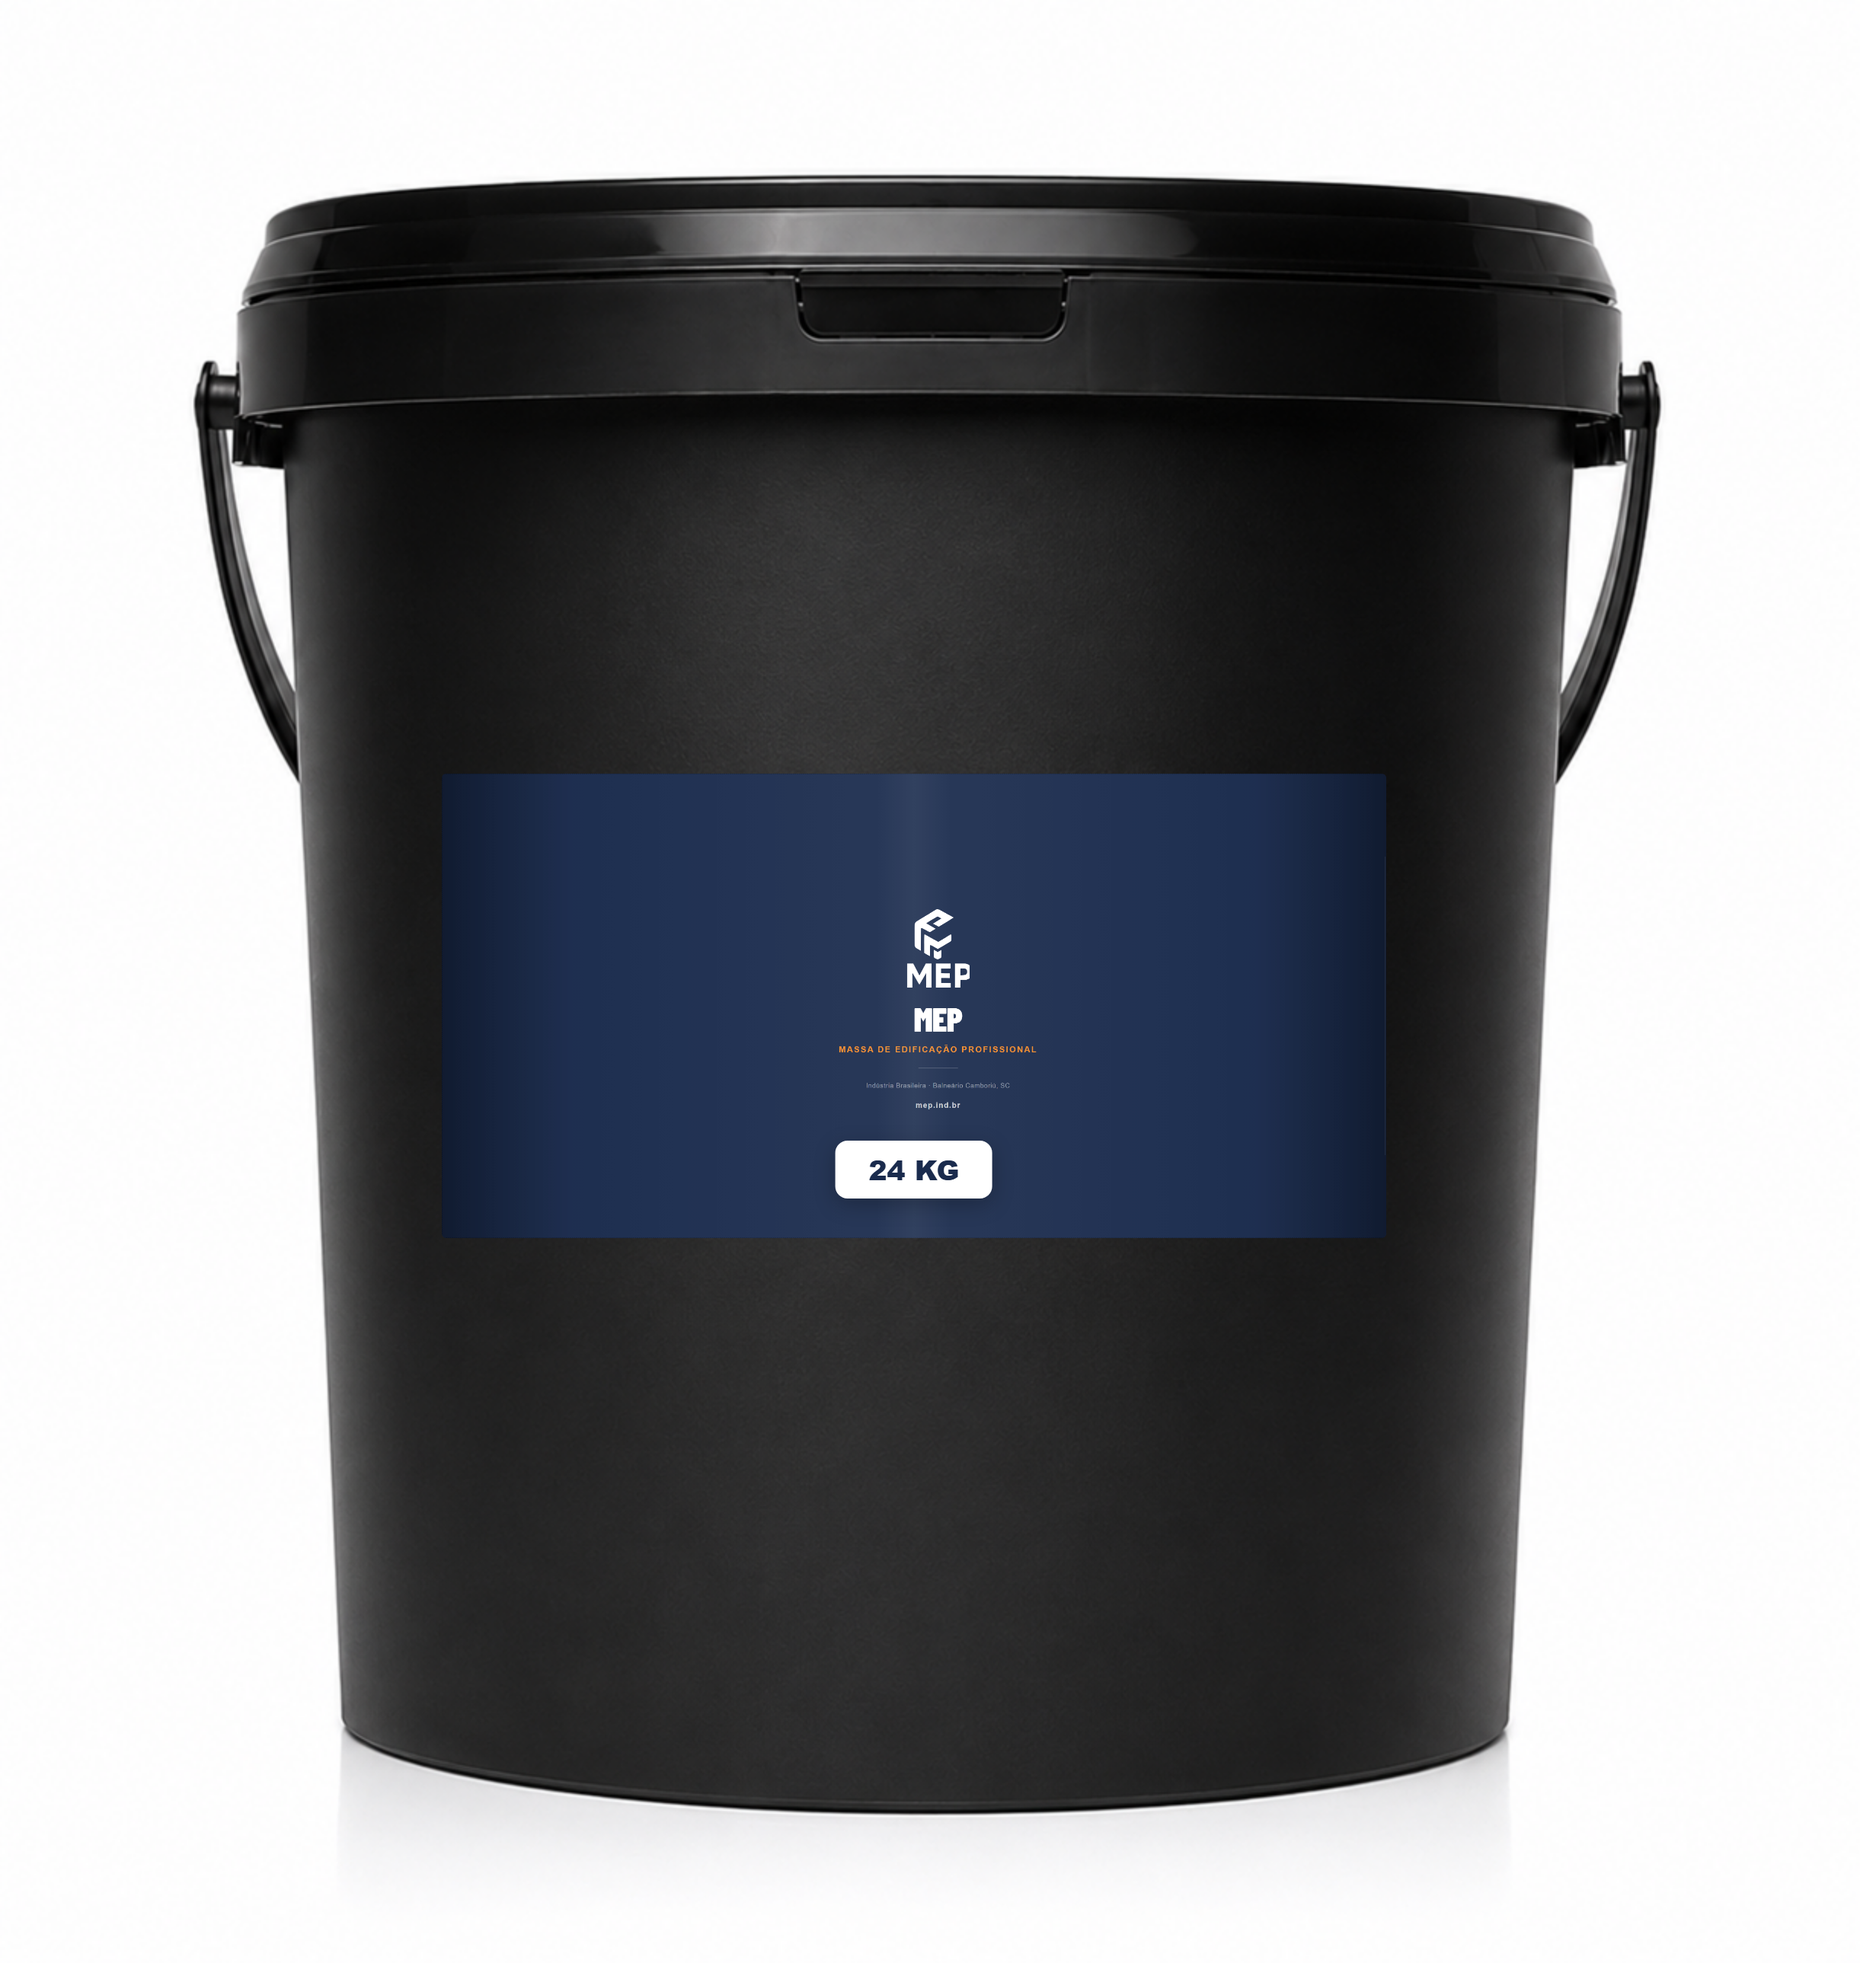
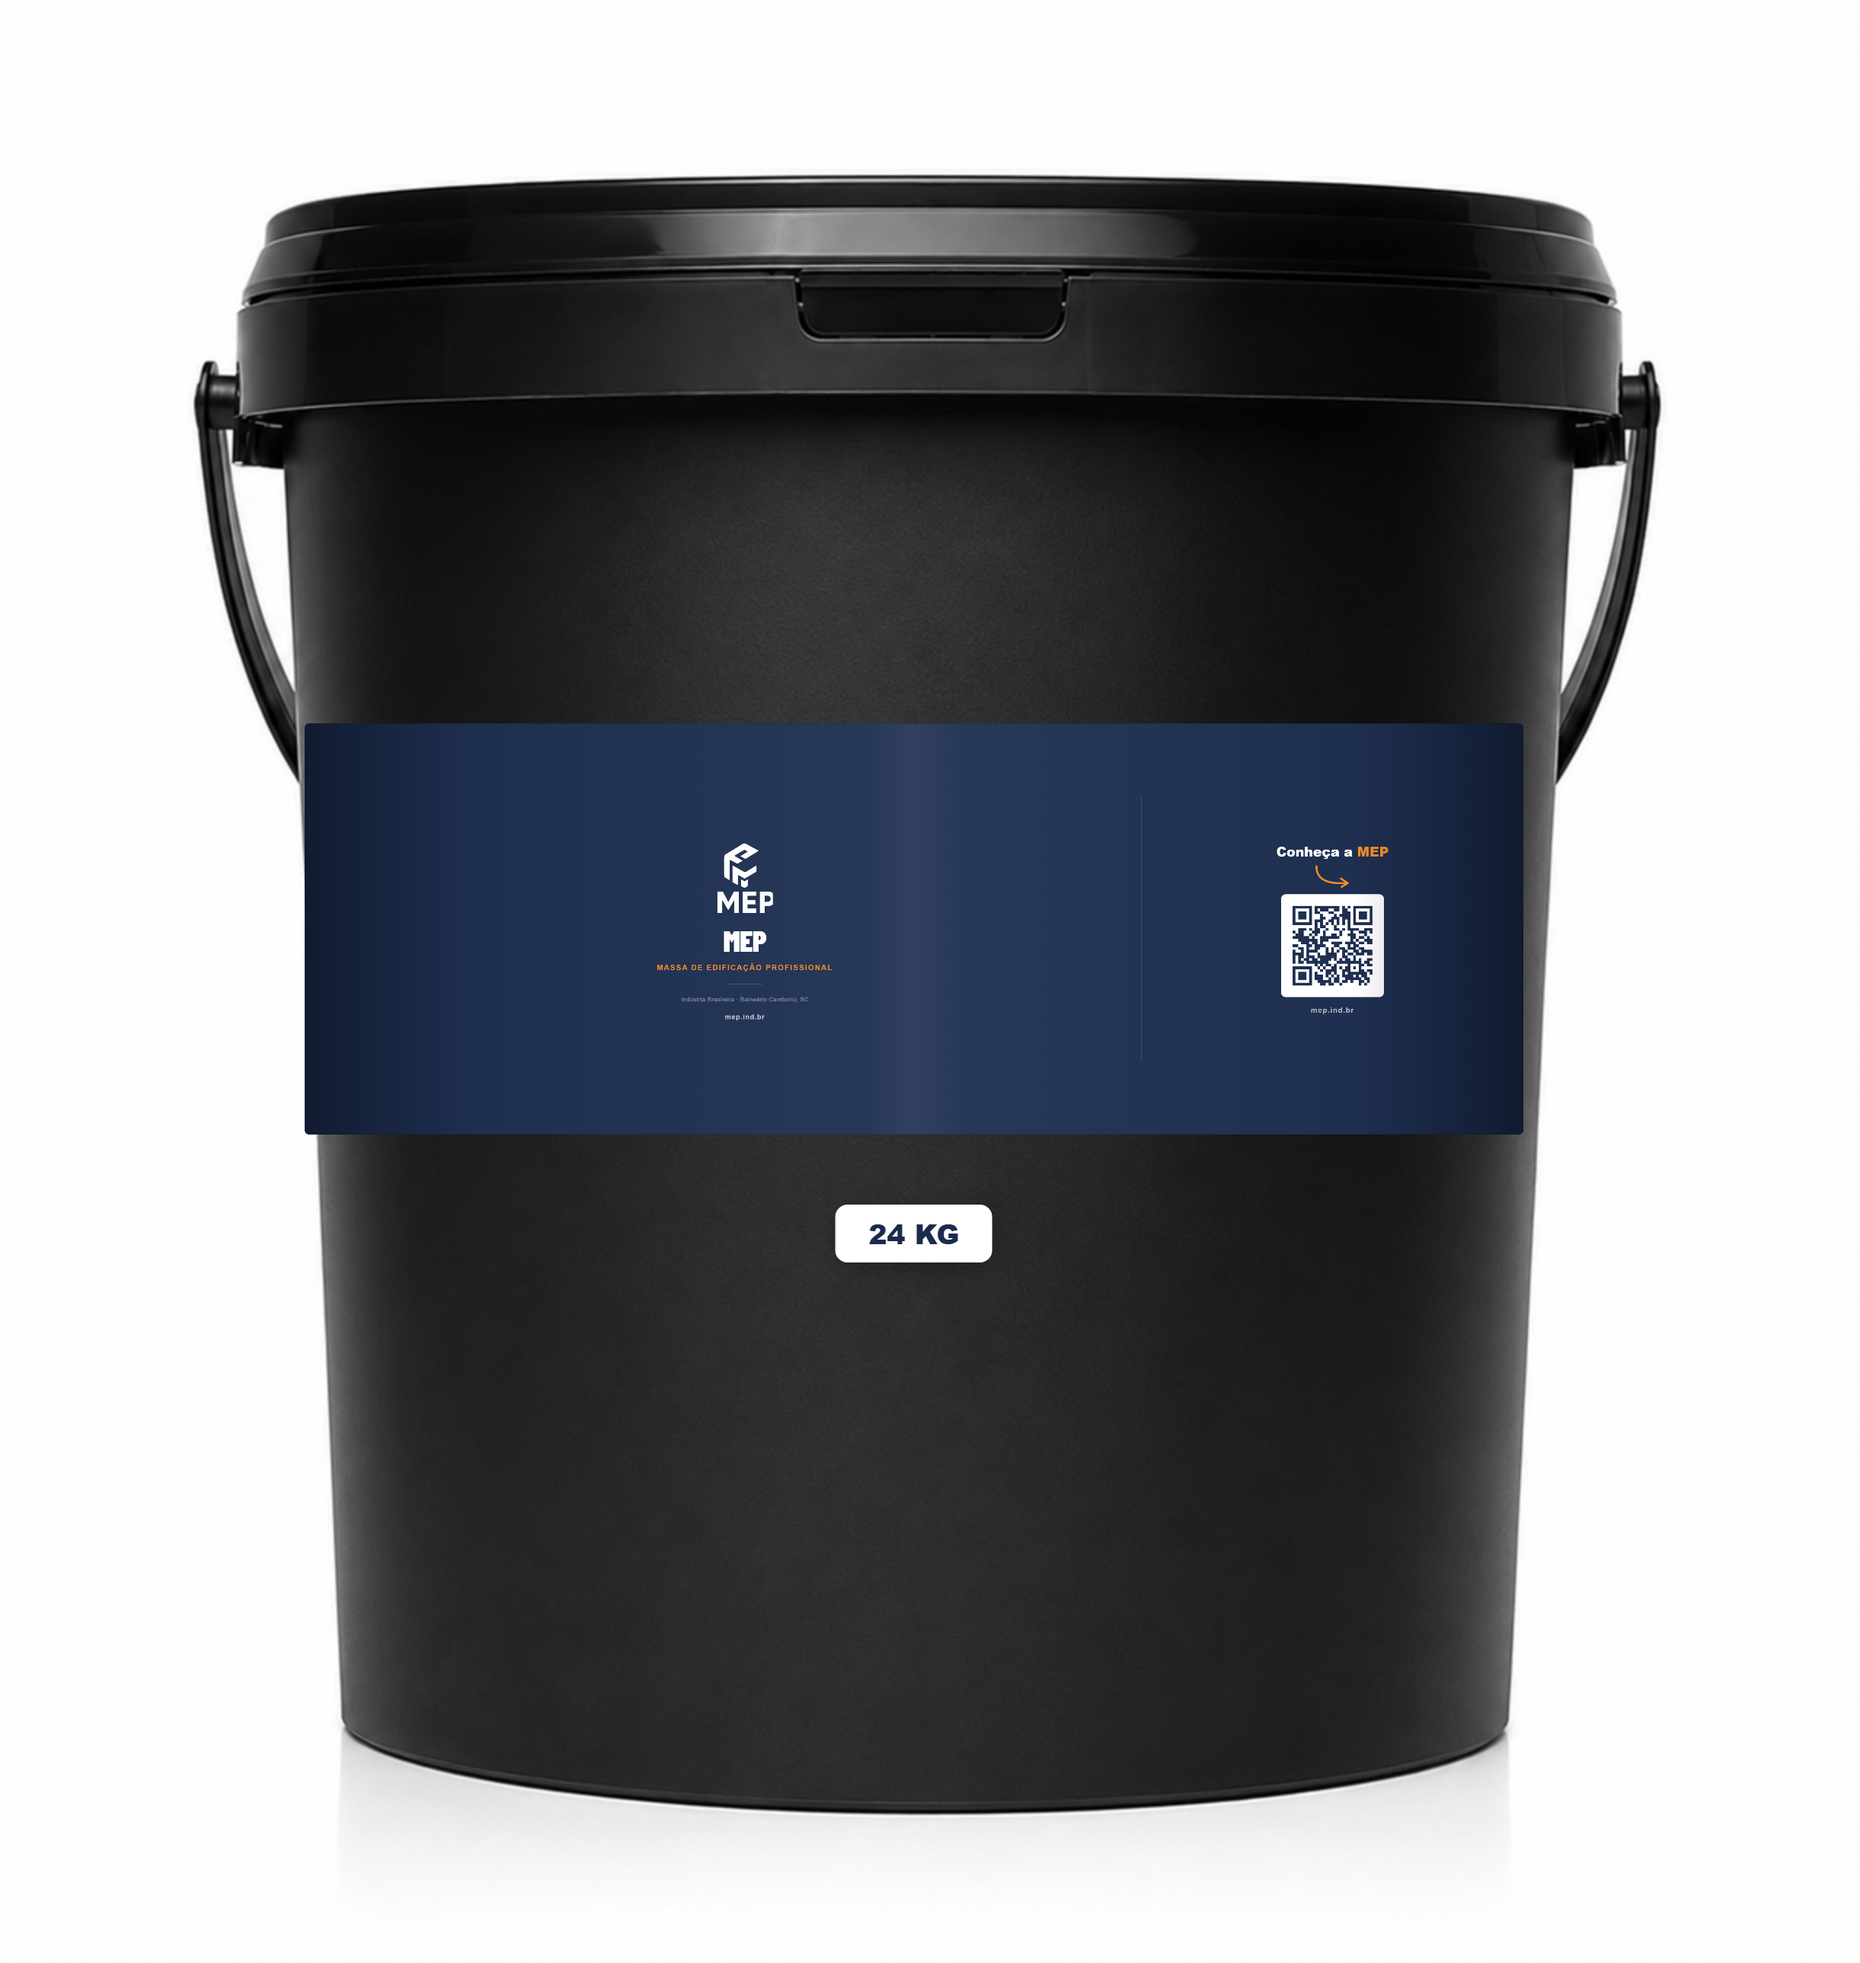
Corrige composicao do balde: so rotulo da frente, nao frente+verso juntos
Cada face do balde tem um rotulo — frente (marca+QR) e verso (ficha
tecnica) sao impressos separadamente. A composicao anterior misturava
os dois na mesma face.

Changed region(s): [[0.1556, 0.3413, 0.8403, 0.6517], [0.4668, 0.4655, 0.5291, 0.5275], [0.3735, 0.4344, 0.4357, 0.4965]]

diff --git a/docs/index.html b/docs/index.html
@@ -165,7 +165,7 @@
       "description": "Fabricante de argamassa polimérica pronta para uso e linha de tintas MEP COLOR para construção civil. 4x mais rápida, 40% mais econômica que a argamassa convencional.",
       "url": "https://www.mep.ind.br",
       "logo": "https://www.mep.ind.br/logo-mep.svg",
-      "image": "https://www.mep.ind.br/balde-25kg-v2.png.png?v=4",
+      "image": "https://www.mep.ind.br/balde-25kg-v2.png.png?v=5",
       "telephone": "+55-47-98851-5506",
       "email": "contato@mep.ind.br",
       "address": {
@@ -1064,7 +1064,7 @@ footer { background:var(--azul2); color:rgba(255,255,255,0.55); }
     </div>
     <div class="hero-visual">
       <div class="hero-visual-glow"></div>
-      <img src="barrica-25kg.webp?v=4" alt="Massa MEP — Barrica 24kg">
+      <img src="barrica-25kg.webp?v=5" alt="Massa MEP — Barrica 24kg">
     </div>
   </div>
 </div>
@@ -1106,7 +1106,7 @@ footer { background:var(--azul2); color:rgba(255,255,255,0.55); }
         </div>
         <div class="slb1-img">
           <div class="slb1-glow"></div>
-          <img src="barrica-25kg.webp?v=4" alt="MEP Massas — Barrica 24kg">
+          <img src="barrica-25kg.webp?v=5" alt="MEP Massas — Barrica 24kg">
           <div class="slb1-badge">Rende<strong>25 m²</strong>por barrica</div>
         </div>
       </div>
@@ -1252,7 +1252,7 @@ footer { background:var(--azul2); color:rgba(255,255,255,0.55); }
 
       <div class="produto-card">
         <div class="produto-img-foto">
-          <img src="barrica-25kg.webp?v=4" alt="Barrica MEP 24kg">
+          <img src="barrica-25kg.webp?v=5" alt="Barrica MEP 24kg">
           <a href="visualizador-360.html" target="_blank" rel="noopener" class="ver-360">
             <svg viewBox="0 0 24 24" fill="none" stroke="currentColor" stroke-width="2"><ellipse cx="12" cy="12" rx="9" ry="4"/><path d="M3 12v3c0 2.2 4 4 9 4s9-1.8 9-4v-3"/></svg>
             Ver em 360°
@@ -1267,7 +1267,7 @@ footer { background:var(--azul2); color:rgba(255,255,255,0.55); }
 
       <div class="produto-card">
         <div class="produto-img-foto">
-          <img src="barrica 30kilos.png?v=4" alt="Barrica MEP 30kg">
+          <img src="barrica 30kilos.png?v=5" alt="Barrica MEP 30kg">
           <a href="visualizador-360.html" target="_blank" rel="noopener" class="ver-360">
             <svg viewBox="0 0 24 24" fill="none" stroke="currentColor" stroke-width="2"><ellipse cx="12" cy="12" rx="9" ry="4"/><path d="M3 12v3c0 2.2 4 4 9 4s9-1.8 9-4v-3"/></svg>
             Ver em 360°
